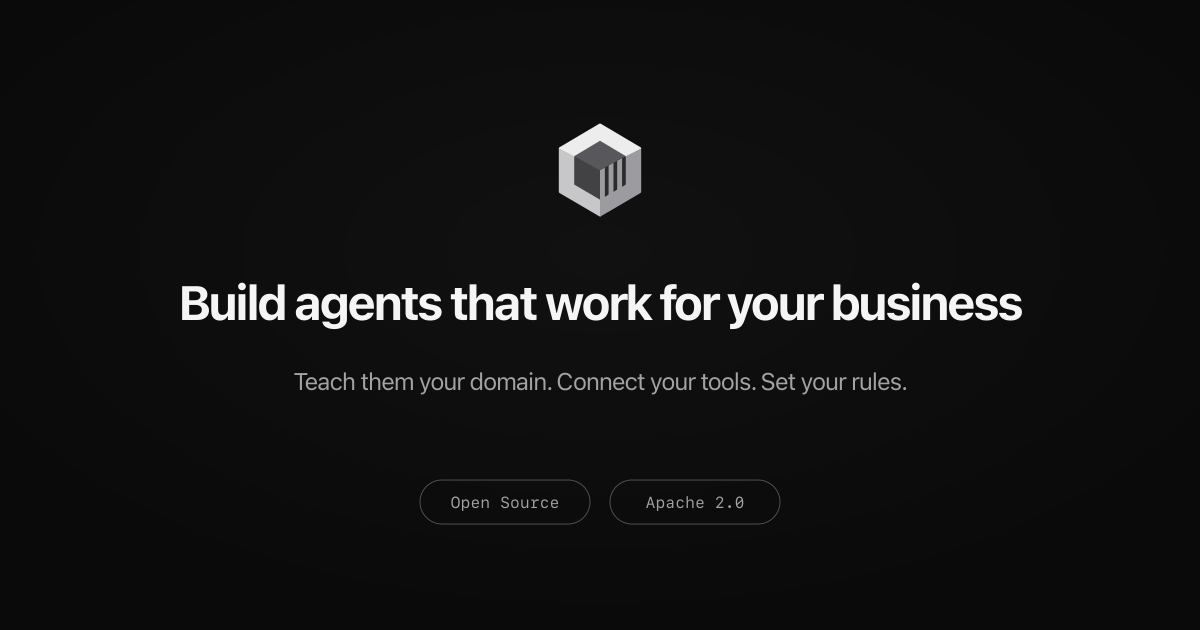
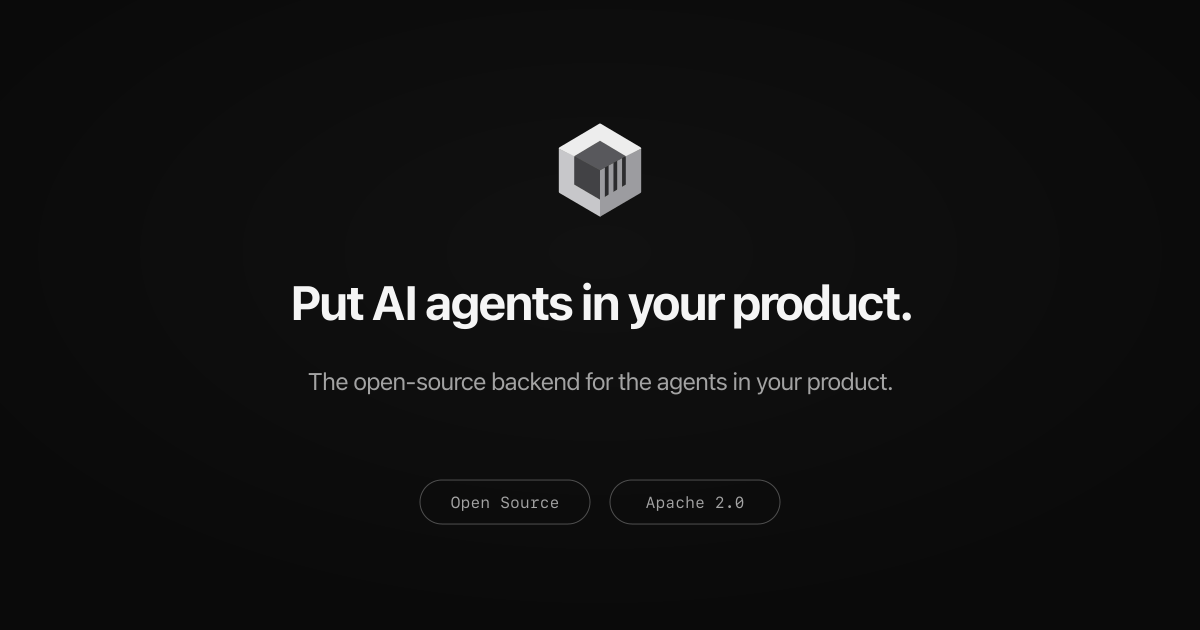
feat(site,web): the site, its manifest, llms.txt, social image and the console read the one source
SITE_CONFIG takes its name, headline, subhead and description from
brand/positioning.ts, so the title, description, Open Graph, Twitter and
JSON-LD say "Put AI agents in your product." and the one sentence. The
keyword list, which carried the old story to no reader, goes.

The web manifest becomes a metadata route (src/app/manifest.ts) reading
the same config, with the site's own dark color; /site.webmanifest
redirects to it. The llms.txt generators and the Open Graph image read
the words too; og-image.png and its README copy, docs/banner_dark.png,
are regenerated. The console's tab names the app, and its description
is the one sentence.

positioning.test.ts passes from here.

Changed region(s): [[0.1542, 0.4524, 0.8633, 0.5429], [0.2467, 0.573, 0.7708, 0.6333]]

diff --git a/site/src/app/layout.tsx b/site/src/app/layout.tsx
@@ -34,27 +34,10 @@ export const viewport: Viewport = {
 export const metadata: Metadata = {
   metadataBase: new URL(SITE_CONFIG.url),
   title: {
-    default: `${SITE_CONFIG.name} — ${SITE_CONFIG.tagline}`,
+    default: `${SITE_CONFIG.name} — ${SITE_CONFIG.headline}`,
     template: `%s | ${SITE_CONFIG.name}`,
   },
   description: SITE_CONFIG.description,
-  keywords: [
-    "AI agents",
-    "agent platform",
-    "business AI",
-    "domain-aware agents",
-    "tool orchestration",
-    "human-in-the-loop",
-    "durable execution",
-    "Temporal orchestration",
-    "MCP security",
-    "gRPC agents",
-    "open source agents",
-    "Stigmer",
-    "agent deployment",
-    "multi-language agents",
-    "Apache 2.0",
-  ],
   authors: [{ name: "Stigmer Team" }],
   creator: SITE_CONFIG.name,
   publisher: SITE_CONFIG.name,
@@ -71,7 +54,7 @@ export const metadata: Metadata = {
     type: "website",
     locale: "en_US",
     url: SITE_CONFIG.url,
-    title: `${SITE_CONFIG.name} — ${SITE_CONFIG.tagline}`,
+    title: `${SITE_CONFIG.name} — ${SITE_CONFIG.headline}`,
     description: SITE_CONFIG.description,
     siteName: SITE_CONFIG.name,
     images: [
@@ -79,13 +62,13 @@ export const metadata: Metadata = {
         url: "/og-image.png",
         width: 1200,
         height: 630,
-        alt: `${SITE_CONFIG.name} — ${SITE_CONFIG.tagline}`,
+        alt: `${SITE_CONFIG.name} — ${SITE_CONFIG.headline}`,
       },
     ],
   },
   twitter: {
     card: "summary_large_image",
-    title: `${SITE_CONFIG.name} — ${SITE_CONFIG.tagline}`,
+    title: `${SITE_CONFIG.name} — ${SITE_CONFIG.headline}`,
     description: SITE_CONFIG.description,
     images: ["/og-image.png"],
   },
@@ -100,7 +83,6 @@ export const metadata: Metadata = {
       "max-snippet": -1,
     },
   },
-  manifest: "/site.webmanifest",
   other: {
     "github:repository": SITE_CONFIG.githubUrl,
     "license": SITE_CONFIG.copyright.license,

diff --git a/site/scripts/generate-llms-txt.ts b/site/scripts/generate-llms-txt.ts
@@ -19,6 +19,7 @@
 
 import * as fs from "node:fs/promises";
 import * as path from "node:path";
+import { POSITIONING } from "../../brand/positioning";
 import {
   collectDocsPages,
   findUncollectedPages,
@@ -33,11 +34,8 @@ const SITE_URL = "https://stigmer.ai";
 const DOCS_DIR = path.resolve(process.cwd(), "..", "docs");
 const OUT_DIR = path.resolve(process.cwd(), "out");
 
-const PROJECT_NAME = "Stigmer";
-const PROJECT_DESCRIPTION =
-  "Open source platform for building AI agents. Stigmer handles sandboxing, " +
-  "orchestration, and MCP security. You write YAML or Go. Agents run " +
-  "locally with zero cloud dependency or scale to production.";
+const PROJECT_NAME = POSITIONING.name;
+const PROJECT_DESCRIPTION = POSITIONING.oneSentence;
 
 /** Subdirectory paths (relative to docs/) whose non-index pages are optional. */
 const OPTIONAL_SUBSECTIONS = new Set(["cli/commands"]);
@@ -140,7 +138,7 @@ function generateLlmsFullTxt(pages: Page[]): string {
   const header = [
     `# ${PROJECT_NAME} Documentation`,
     "",
-    `> Complete documentation for the ${PROJECT_NAME} platform.`,
+    `> ${PROJECT_DESCRIPTION}`,
     `> Source: ${SITE_URL}/docs`,
   ].join("\n");
 

diff --git a/client-apps/web/src/app/layout.tsx b/client-apps/web/src/app/layout.tsx
@@ -4,14 +4,16 @@ import { AppShell } from "@/domain/_shared/layout/AppShell";
 import { AppNavigationProvider } from "@/domain/_shared/navigation/app-navigation";
 import { SessionNavigationProvider } from "@/domain/session/session-navigation";
 import { consoleFonts } from "./fonts/fonts";
+import { POSITIONING } from "../../../../brand/positioning";
 import "./globals.css";
 
 const fontVariables = consoleFonts.map((font) => font.variable).join(" ");
 
+// The tab names the app; the description is the one sentence every surface
+// reads from brand/positioning.ts.
 export const metadata: Metadata = {
-  title: "Stigmer — Build agents that work for your business",
-  description:
-    "Open-source AI agent platform that lets you turn domain knowledge and tools into agents your applications can call via API.",
+  title: POSITIONING.name,
+  description: POSITIONING.oneSentence,
   icons: {
     icon: [
       { url: "/favicon-dark.svg", type: "image/svg+xml", media: "(prefers-color-scheme: dark)" },

diff --git a/site/scripts/generate-images.ts b/site/scripts/generate-images.ts
@@ -25,6 +25,7 @@ import {
   brandShadedSvg,
   brandSvg,
 } from "../../brand/assets.mjs";
+import { POSITIONING } from "../../brand/positioning";
 import pngToIco from "png-to-ico";
 import * as fs from "fs/promises";
 import * as path from "path";
@@ -137,13 +138,12 @@ function createOgBackground(): Buffer {
 }
 
 /**
- * Creates an SVG with the brand name and tagline.
- * Uses current positioning: headline A + three-pillar sub-headline.
+ * Creates an SVG with the headline and the one sentence from
+ * brand/positioning.ts. The subhead is too long for the image at 24px.
  */
 function createOgText(): Buffer {
-  const headline = "Build agents that work for your business";
-  const subheadline =
-    "Teach them your domain. Connect your tools. Set your rules.";
+  const headline = POSITIONING.headline;
+  const subheadline = POSITIONING.oneSentence;
 
   const svg = `
     <svg width="${OG_IMAGE.width}" height="${OG_IMAGE.height}" xmlns="http://www.w3.org/2000/svg">

diff --git a/site/src/app/manifest.ts b/site/src/app/manifest.ts
@@ -1,0 +1,24 @@
+import type { MetadataRoute } from "next";
+import { SITE_CONFIG } from "@/lib/constants";
+
+// Required for static export
+export const dynamic = "force-static";
+
+/** The web manifest, served at /manifest.webmanifest; Next links it from every page. */
+export default function manifest(): MetadataRoute.Manifest {
+  return {
+    name: SITE_CONFIG.name,
+    short_name: SITE_CONFIG.name,
+    description: SITE_CONFIG.description,
+    start_url: "/",
+    display: "standalone",
+    // Dark-only site: the same color as the layout's themeColor.
+    background_color: "#0a0a0a",
+    theme_color: "#0a0a0a",
+    // The mark on its rounded tile (scripts/generate-images.ts), shown as is.
+    icons: [
+      { src: "/icon-192.png", sizes: "192x192", type: "image/png", purpose: "any" },
+      { src: "/icon-512.png", sizes: "512x512", type: "image/png", purpose: "any" },
+    ],
+  };
+}

diff --git a/site/src/lib/constants.ts b/site/src/lib/constants.ts
@@ -1,15 +1,19 @@
 /**
  * Site-wide configuration and constants.
- * Single source of truth for all static configuration.
+ * Single source of truth for all static configuration; the words that say
+ * what Stigmer is come from brand/positioning.ts, which the console reads too.
  */
 
+import { POSITIONING } from "../../../brand/positioning";
+
 export const SITE_CONFIG = {
-  name: "Stigmer",
+  name: POSITIONING.name,
 
-  tagline: "Build agents that work for your business",
+  headline: POSITIONING.headline,
 
-  description:
-    "Open-source AI agent platform that lets you turn domain knowledge and tools into agents your applications can call via API.",
+  subhead: POSITIONING.subhead,
+
+  description: POSITIONING.oneSentence,
 
   url: "https://stigmer.ai",
 

diff --git a/site/src/components/sections/Hero.tsx b/site/src/components/sections/Hero.tsx
@@ -70,7 +70,7 @@ function Hero({ className, ...props }: HeroProps) {
                 id="hero-heading"
                 className="text-4xl sm:text-5xl lg:text-6xl font-bold tracking-tight text-foreground mb-6"
               >
-                {SITE_CONFIG.tagline}
+                {SITE_CONFIG.headline}
               </h1>
             </FadeInUp>
 
